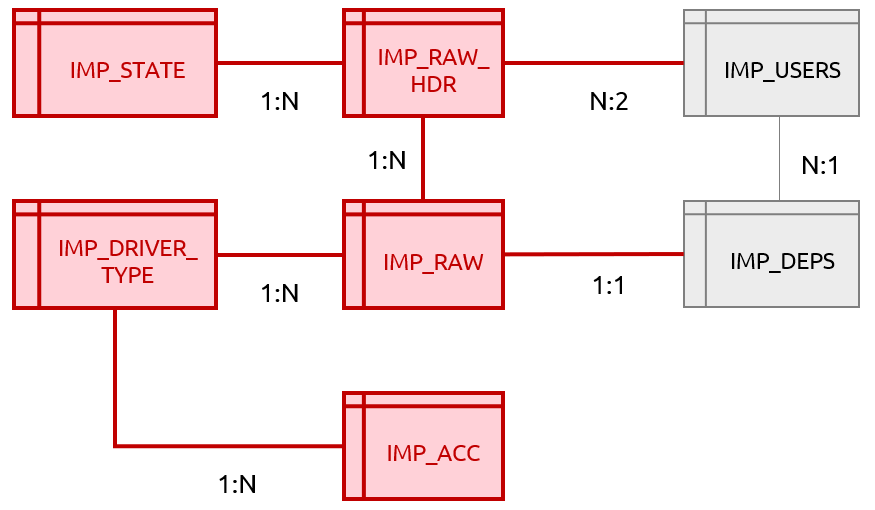
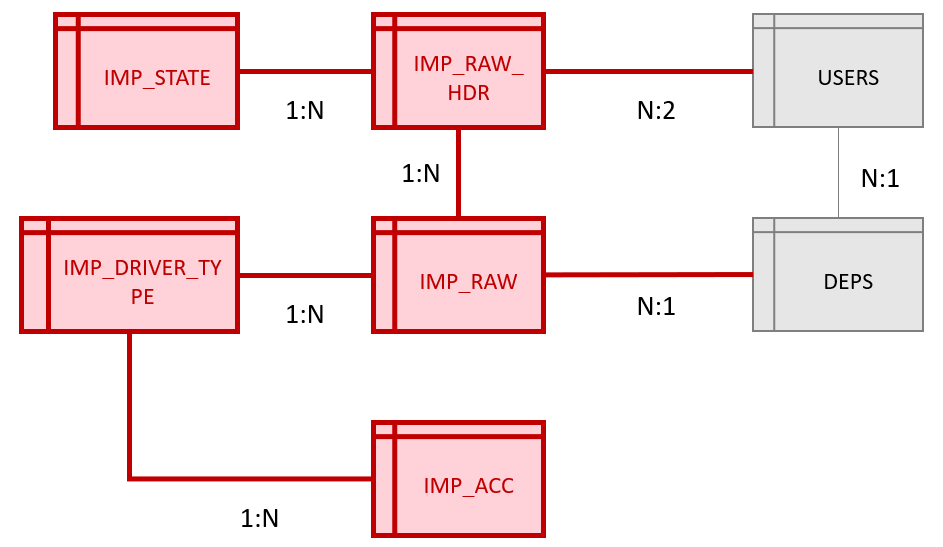
Bugfix

Changed region(s): [[0.0, 0.0, 0.9874, 1.0], [0.2469, 0.9118, 0.3086, 0.9706], [0.6789, 0.1765, 0.7406, 0.2353]]

diff --git a/01_PrimerPPAppScenario.md b/01_PrimerPPAppScenario.md
@@ -188,20 +188,22 @@ Custom pages are used to bundle the functionality for the importer and approver 
 
 ## Data Model
 
-The picture below shows the data model (Table names are abbreviated):
+The picture below shows the conceptual data model. The table names are abbreviated. As stated previously only the red marked tables are covered by the application:
 
 <br><img src="./images/intro_dataverse_app_model.png" /><br>
 
 The meaning of the tables are as follows. The names are the ones that are also used in dataverse:
-* Table IMP_CO2_CONS_ACC - Aggregated CO2 consumption
-* Table IMP_CO2_CONS_RAW_HDR - Import header
-* Table IMP_CO2_CONS_RAW - Consumption data of the import
-* Table IMP_USERS - Users and associated department
+* IMP_CO2_CONS_ACC - Aggregated CO2 consumption
+* IMP_CO2_CONS_RAW_HDR - Import header
+* IMP_CO2_CONS_RAW - Consumption data of the import
+* IMP_USERS - Users and associated department
 * Table IMP_DEARTMENTS - Departments
-* Choice IMP_STATES_CHOICE - Possible import states
-* Choice IMP_CO2_DRIVER_TYPES_CHOICE - Possible drivers for CO2 emission
+* IMP_STATES_CHOICE - Possible import states
+* IMP_CO2_DRIVER_TYPES_CHOICE - Possible drivers for CO2 emission
 
-The table below gives a short overview of the columns for the custom tables. Choices contain key value pairs. In our hackathon the only used default column feature is attachments. All other required ones we defined manually. In a real world scenario you would only define missing columns on top of the existing ones. All relevant columns except attachments have the prefx `CST` to quickly identify them:
+Conceptually all tables below behave like tables. But from PowerPlatform perspective we have technically two kinds of tables: **(1) custom tables** and **(2) choice**. Choice is like an enum and from a tabular perspective they have just two columns to accomodate key value pairs. They are the preferred option when you have a rather fixed set of values.
+
+The table below gives a short overview of the columns for the custom tables. In our hackathon the only used default column feature is attachments. All other required ones we defined manually. In a real world scenario you would only define missing columns on top of the existing ones. All relevant columns except attachments have the prefx `CST` to quickly identify them:
 
 |Table name          |Column name           |Purpose                                     |
 |--------------------|----------------------|--------------------------------------------|
